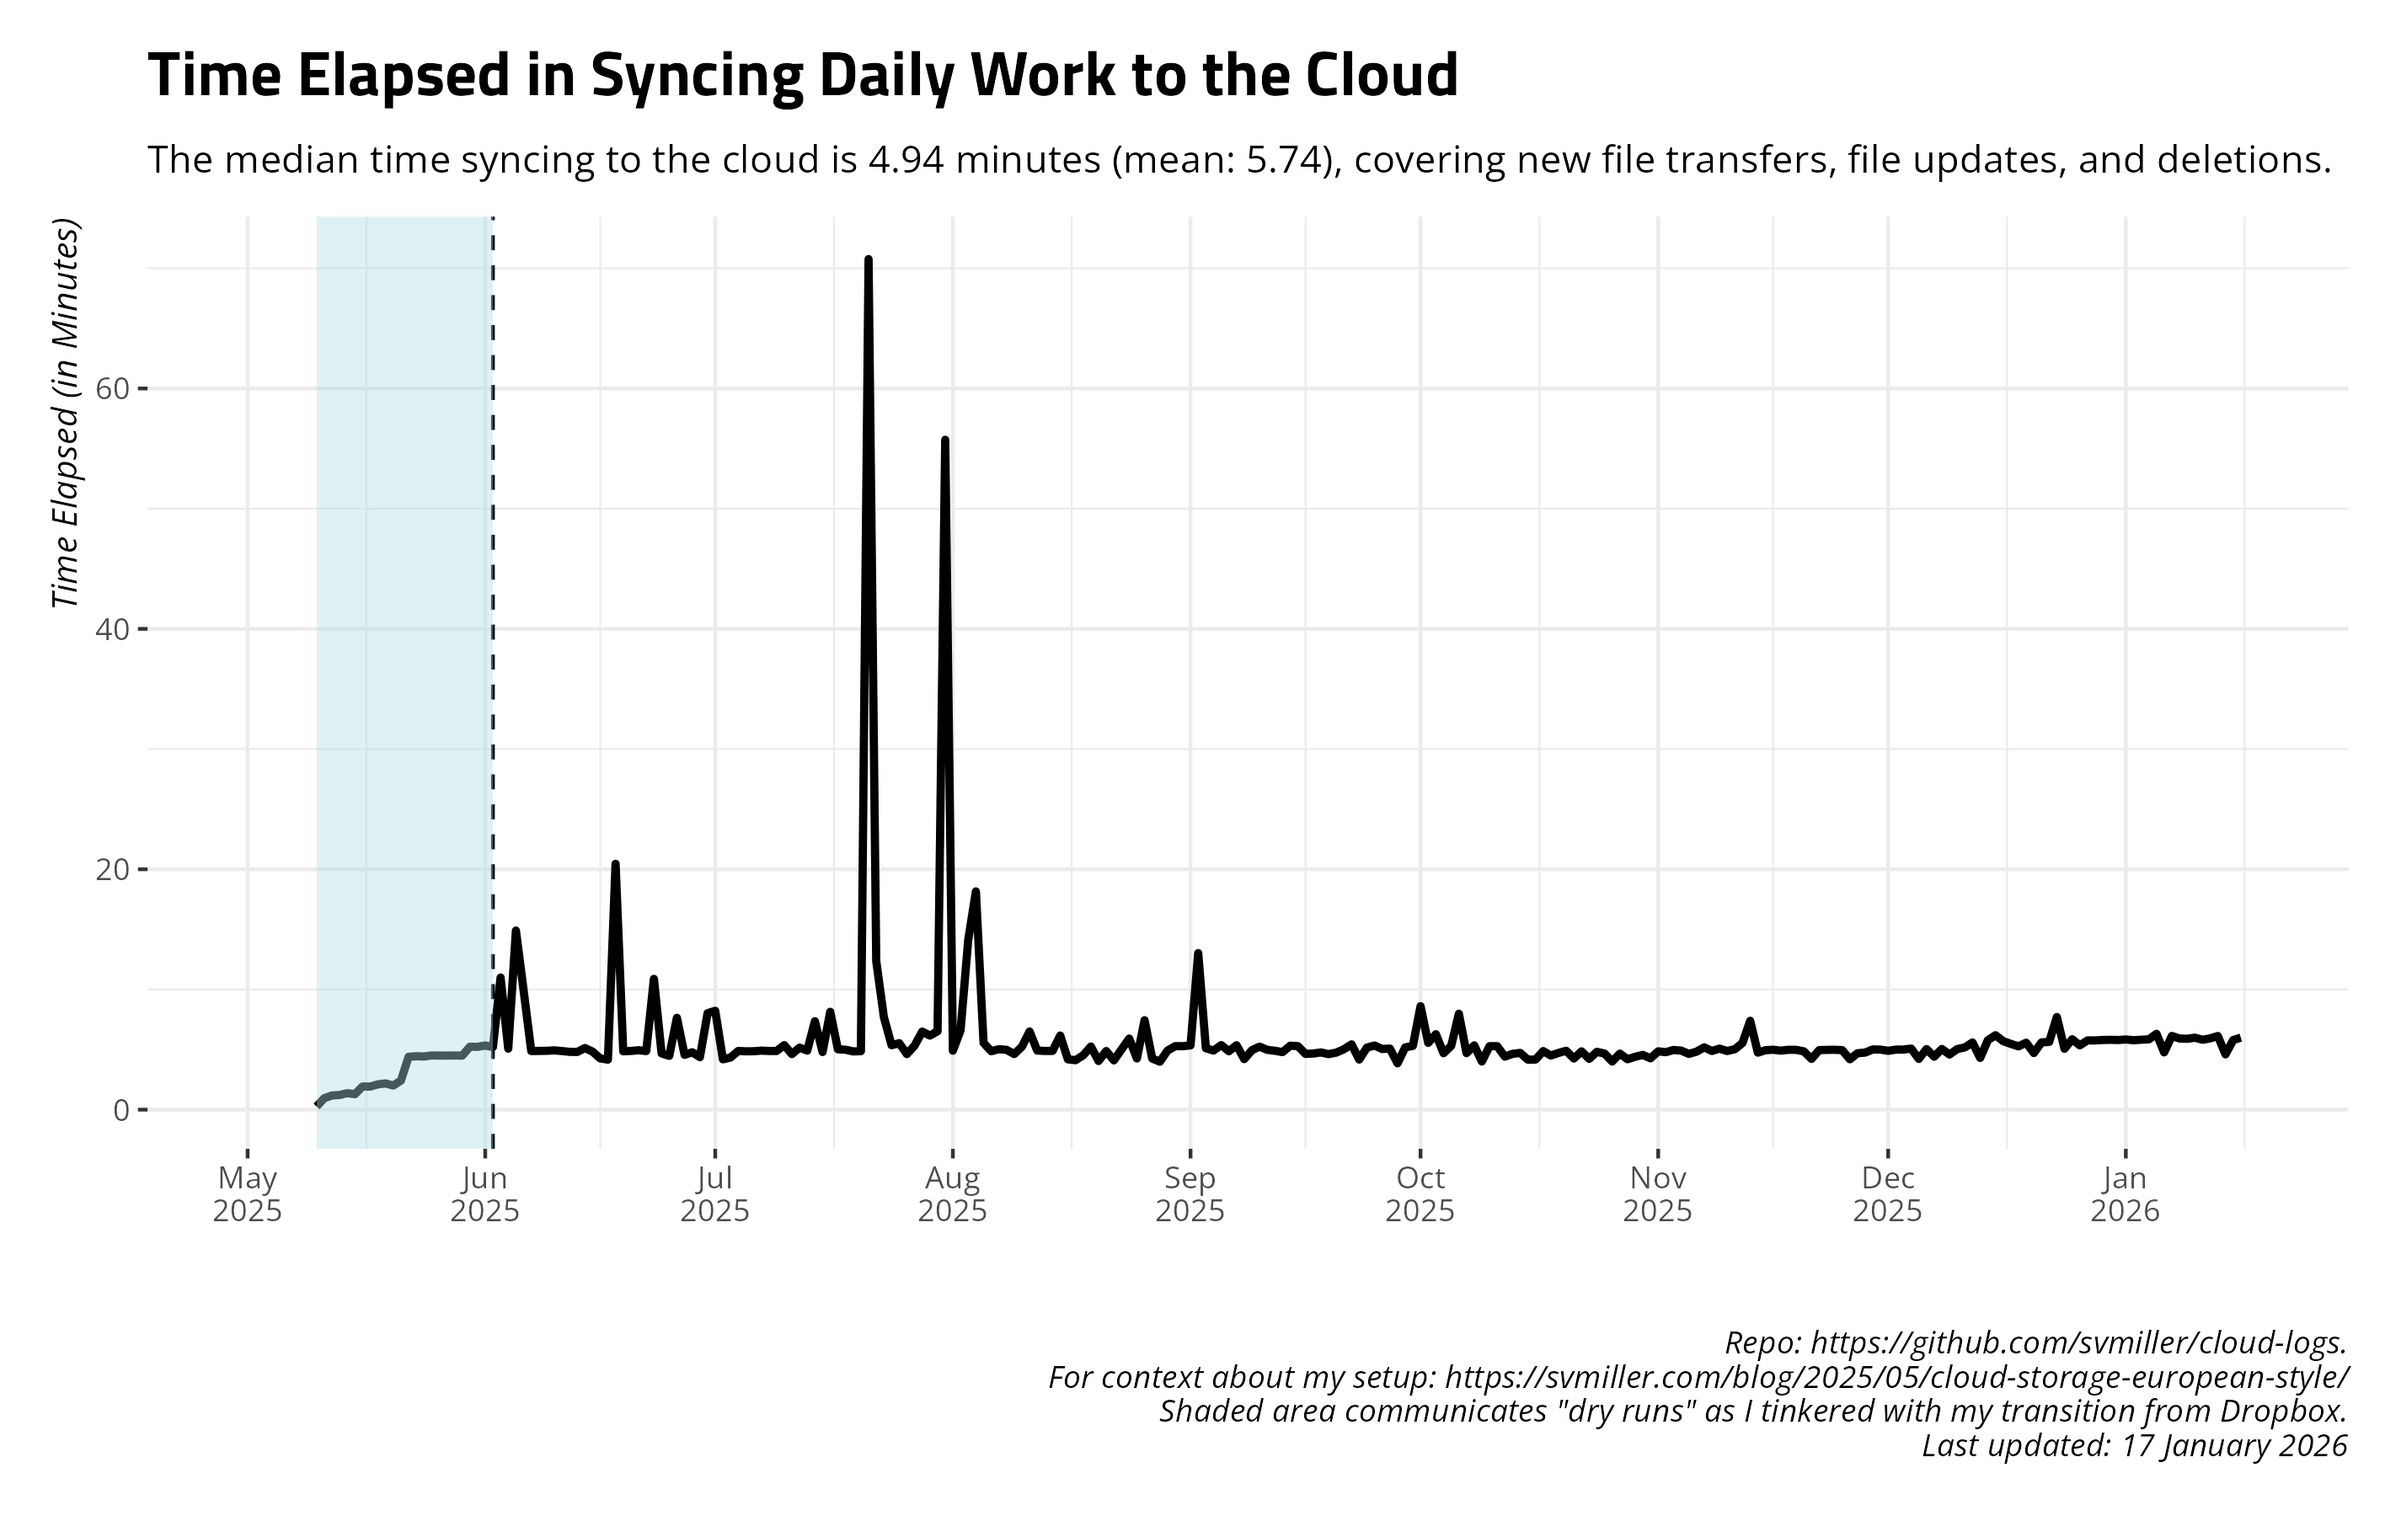
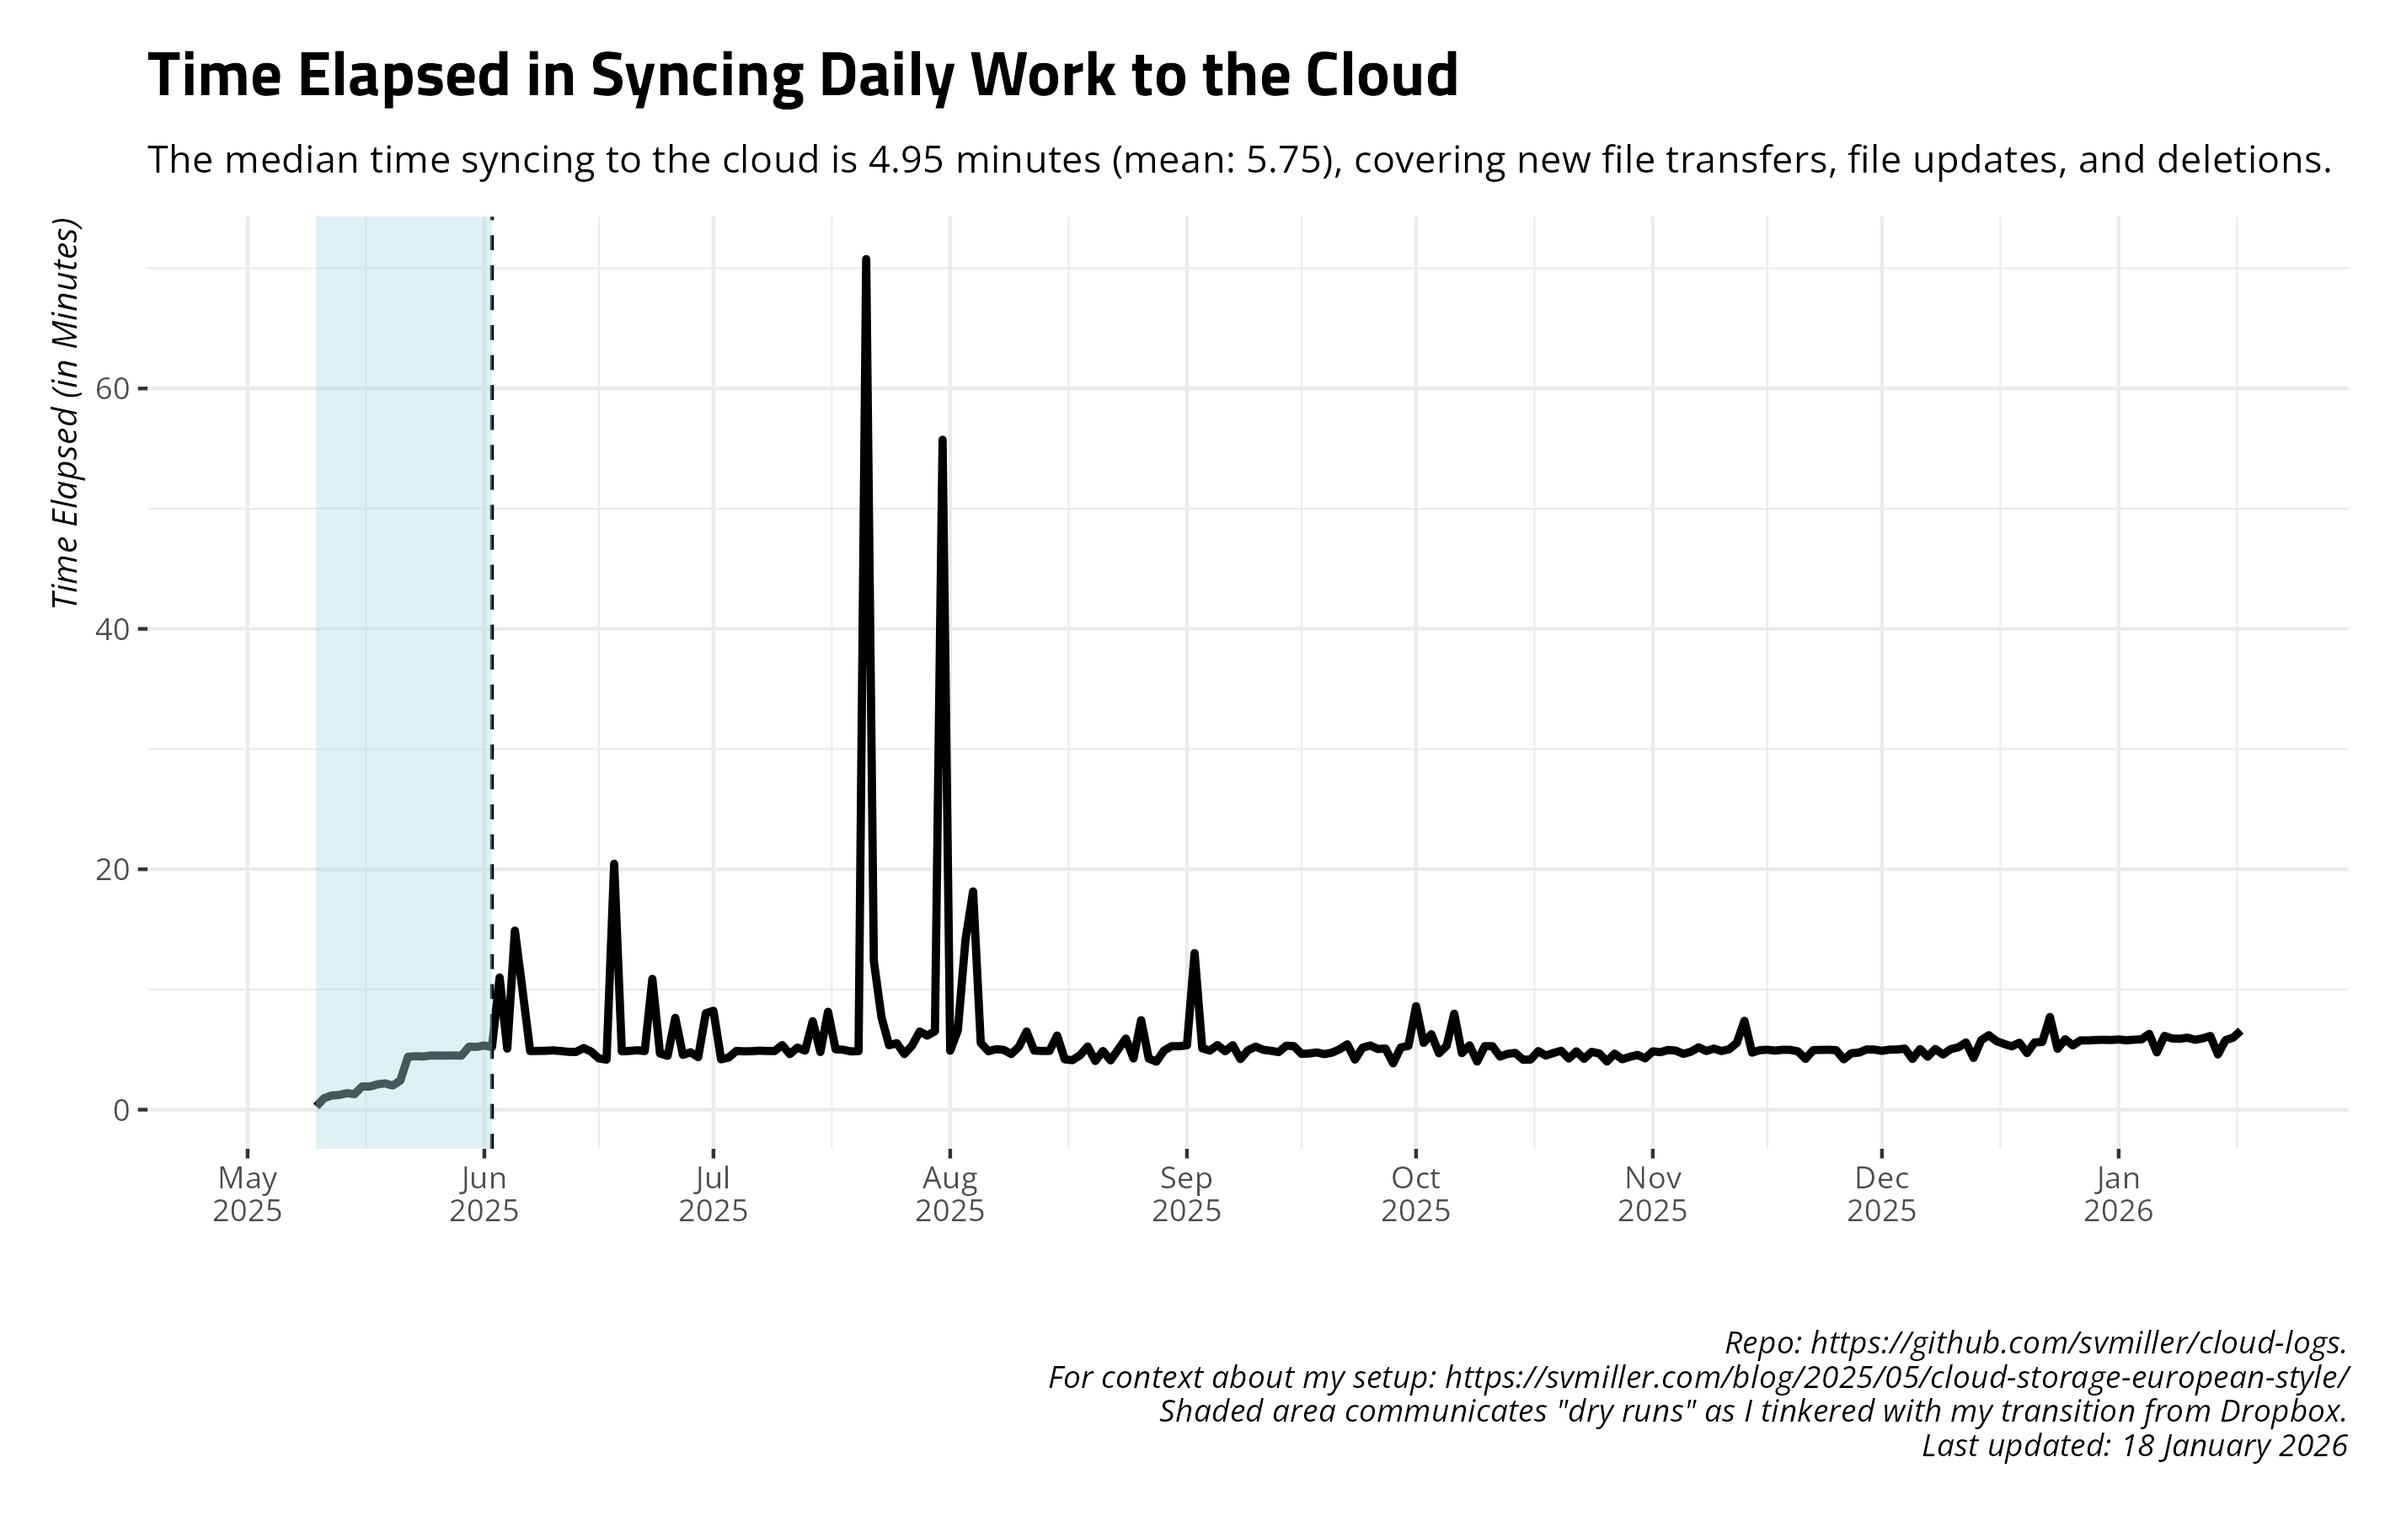
Date: 2026-01-18 09:00:20. Hi mom!

diff --git a/README.md b/README.md
@@ -27,17 +27,17 @@ and uploads to Github.
     #> # A tibble: 14 × 4
     #>    date       ftransfer stransfer   elapsed
     #>    <date>         <dbl> <chr>       <chr>  
-    #>  1 2026-01-03        15 11.971 MiB  5m49.2s
-    #>  2 2026-01-04         4 246.865 KiB 5m50.9s
-    #>  3 2026-01-05         4 545.865 KiB 6m18.5s
-    #>  4 2026-01-06        14 126.652 KiB 4m46.0s
-    #>  5 2026-01-07        13 1.440 MiB   6m7.9s 
-    #>  6 2026-01-08         0 <NA>        5m55.4s
-    #>  7 2026-01-09        76 3.544 MiB   5m53.8s
-    #>  8 2026-01-10        27 11.354 MiB  5m59.2s
-    #>  9 2026-01-11         0 <NA>        5m49.0s
-    #> 10 2026-01-12        52 2.182 MiB   5m55.8s
-    #> 11 2026-01-13        77 818.499 KiB 6m7.7s 
-    #> 12 2026-01-14        67 54.182 MiB  4m36.0s
-    #> 13 2026-01-15        24 1.058 MiB   5m47.3s
-    #> 14 2026-01-16         0 <NA>        5m59.7s
+    #>  1 2026-01-04         4 246.865 KiB 5m50.9s
+    #>  2 2026-01-05         4 545.865 KiB 6m18.5s
+    #>  3 2026-01-06        14 126.652 KiB 4m46.0s
+    #>  4 2026-01-07        13 1.440 MiB   6m7.9s 
+    #>  5 2026-01-08         0 <NA>        5m55.4s
+    #>  6 2026-01-09        76 3.544 MiB   5m53.8s
+    #>  7 2026-01-10        27 11.354 MiB  5m59.2s
+    #>  8 2026-01-11         0 <NA>        5m49.0s
+    #>  9 2026-01-12        52 2.182 MiB   5m55.8s
+    #> 10 2026-01-13        77 818.499 KiB 6m7.7s 
+    #> 11 2026-01-14        67 54.182 MiB  4m36.0s
+    #> 12 2026-01-15        24 1.058 MiB   5m47.3s
+    #> 13 2026-01-16         0 <NA>        5m59.7s
+    #> 14 2026-01-17         0 <NA>        6m34.4s
